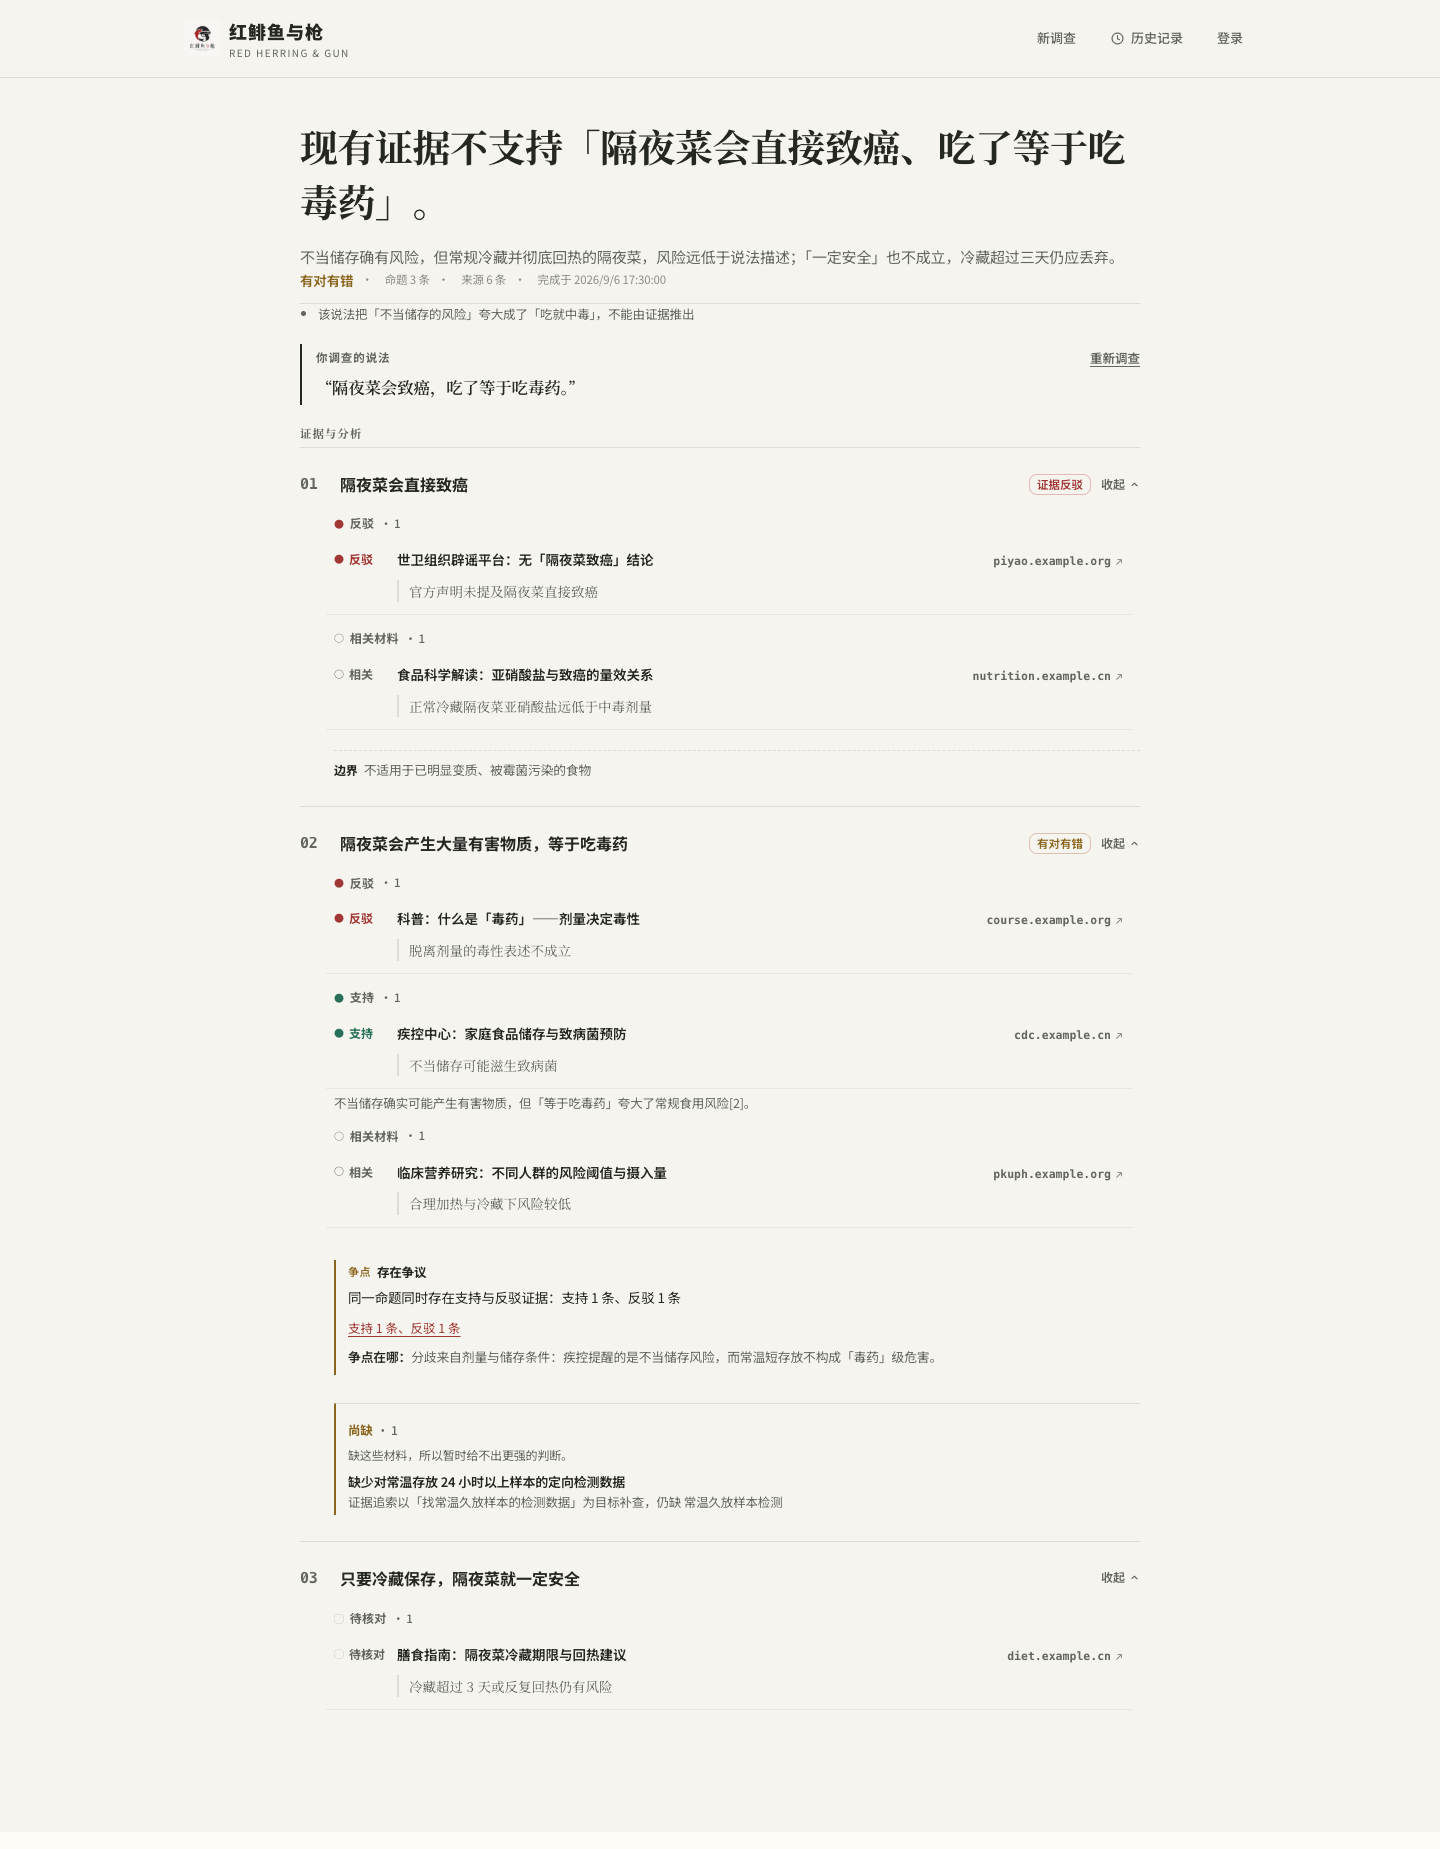
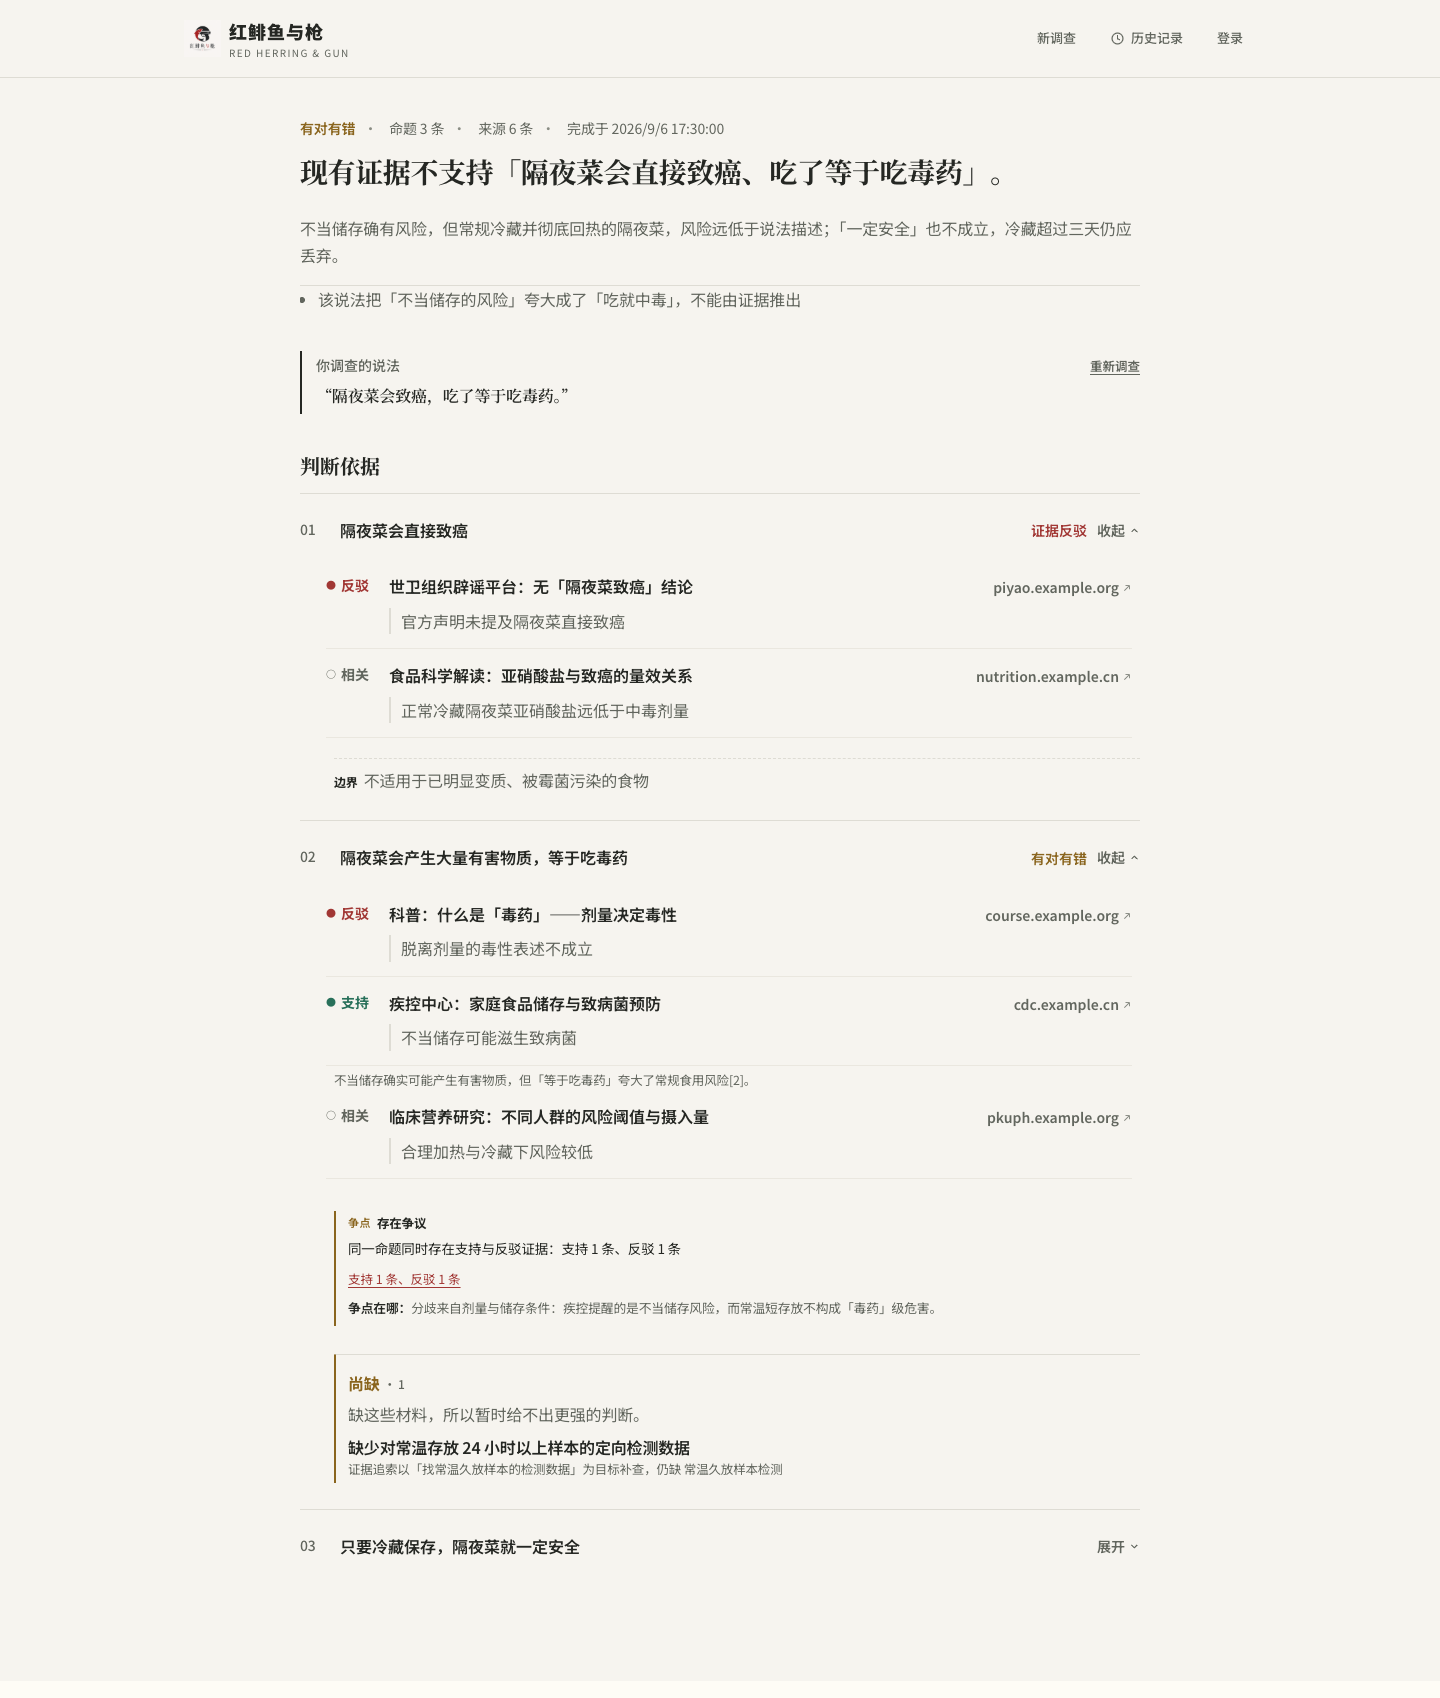
fix(golden-path): 结果页按判断、回答、原句、依据来读
完成态只用四档字号，小节改成「判断依据」，材料行不再重复分组标题。

diff --git a/mvp/src/goldenPath/golden-path.css b/mvp/src/goldenPath/golden-path.css
@@ -1112,12 +1112,13 @@
 .gp-hero-answer {
   margin: 0 0 16px 0;
   font-family: var(--gp-serif);
-  font-size: clamp(26px, 3.2vw, 38px);
+  font-size: clamp(22px, 2.2vw, 28px);
   font-weight: 650;
-  line-height: 1.45;
-  letter-spacing: -0.5px;
+  line-height: 1.4;
+  letter-spacing: -0.4px;
   color: var(--gp-ink-primary);
   text-decoration: none;
+  max-width: 38em;
 }
 
 /* 判断色只做细线，不对整句铺色 */
@@ -1135,11 +1136,11 @@
 /* 结论第二层：判断句之后的解释，降到正文档层级，与 24px/700 的判断明确分层。
    不新起一套 token，沿用既有的正文墨色与字号阶梯。 */
 .gp-hero-rationale {
-  margin: 0;
-  font-size: 15px;
+  margin: 8px 0 0;
+  font-size: 16px;
   font-weight: 400;
   line-height: 1.7;
-  color: var(--gp-ink-secondary);
+  color: var(--gp-ink-2);
 }
 
 .gp-hero-uncertainty {
@@ -1155,16 +1156,15 @@
   flex-wrap: wrap;
   align-items: center;
   gap: 0 0;
-  font-size: 11.5px;
+  margin: 0 0 12px;
+  font-size: 14px;
   font-weight: 400;
-  color: var(--gp-ink-muted);
+  color: var(--gp-ink-2);
   font-variant-numeric: tabular-nums;
 }
 
 .gp-hero-judgment {
-  /* 取 13.5px/600：与已提交的 mvp/DESIGN.md「判断类别用判断色文字（13.5px / 600）
-     与规模行并排」一致。PR #85 原来的 11.5px/500 与该规格不符，故合并时取前者。 */
-  font-size: 13.5px;
+  font-size: 14px;
   font-weight: 600;
   color: var(--gp-ink-tertiary);
 }
@@ -1191,16 +1191,16 @@
 }
 
 .gp-hero-boundaries {
-  margin-top: 12px;
+  margin-top: 16px;
   padding: 0;
   background: transparent;
   border: 0;
   border-top: 1px solid var(--gp-hairline);
   border-radius: 0;
   box-shadow: none;
-  font-size: 12.5px;
+  font-size: 16px;
   line-height: 1.65;
-  color: var(--gp-ink-tertiary);
+  color: var(--gp-ink-2);
 }
 
 .gp-hero-boundary-list {
@@ -1258,6 +1258,101 @@
   letter-spacing: 0.08em;
   text-transform: uppercase;
   color: var(--gp-ink-3);
+}
+
+/* 完成态：四档字号。判断 14 / 回答 22–28 / 节题 20 / 正文 16。 */
+.gp-canvas[data-gp-phase="complete"] .gp-section-label {
+  margin: 28px 0 12px;
+  font-family: var(--gp-serif);
+  font-size: 20px;
+  font-weight: 650;
+  letter-spacing: 0;
+  text-transform: none;
+  color: var(--gp-ink);
+}
+
+.gp-canvas[data-gp-phase="complete"] .gp-original {
+  margin: 20px 0 8px;
+}
+
+.gp-canvas[data-gp-phase="complete"] .gp-original-label {
+  font-size: 14px;
+  font-weight: 500;
+  letter-spacing: 0;
+  text-transform: none;
+  color: var(--gp-ink-2);
+}
+
+.gp-canvas[data-gp-phase="complete"] .gp-original-text {
+  font-size: 16px;
+  line-height: 1.7;
+}
+
+.gp-canvas[data-gp-phase="complete"] .gp-claim-text {
+  font-size: 16px;
+  font-weight: 600;
+}
+
+.gp-canvas[data-gp-phase="complete"] .gp-claim-num {
+  font-family: inherit;
+  font-size: 14px;
+  font-weight: 500;
+}
+
+.gp-canvas[data-gp-phase="complete"] .gp-chip {
+  border: 0;
+  background: none;
+  padding: 0;
+  font-size: 14px;
+}
+
+.gp-canvas[data-gp-phase="complete"] .gp-claim-toggle {
+  font-size: 14px;
+  color: var(--gp-ink-2);
+}
+
+.gp-canvas[data-gp-phase="complete"] .gp-evidence-group-head {
+  position: absolute;
+  width: 1px;
+  height: 1px;
+  overflow: hidden;
+  clip: rect(0 0 0 0);
+}
+
+.gp-canvas[data-gp-phase="complete"] .gp-evidence-title {
+  font-size: 16px;
+  font-weight: 600;
+  line-height: 1.5;
+}
+
+.gp-canvas[data-gp-phase="complete"] .gp-evidence-excerpt {
+  font-family: var(--gp-font);
+  font-size: 16px;
+  line-height: 1.65;
+  color: var(--gp-ink-2);
+}
+
+.gp-canvas[data-gp-phase="complete"] .gp-evidence-relation {
+  font-size: 14px;
+  min-width: 3.5em;
+}
+
+.gp-canvas[data-gp-phase="complete"] .gp-evidence-domain {
+  font-family: inherit;
+  font-size: 14px;
+}
+
+.gp-canvas[data-gp-phase="complete"] .gp-boundary,
+.gp-canvas[data-gp-phase="complete"] .gp-gaps-label,
+.gp-canvas[data-gp-phase="complete"] .gp-gaps-hint,
+.gp-canvas[data-gp-phase="complete"] .gp-gap-desc {
+  font-size: 16px;
+}
+
+.gp-canvas[data-gp-phase="complete"] .gp-evidence-item {
+  padding: 14px 0;
+  gap: 14px;
+  min-height: 44px;
 }
 
 .gp-claim-list {

diff --git a/mvp/src/goldenPath/goldenPath.test.tsx b/mvp/src/goldenPath/goldenPath.test.tsx
@@ -542,13 +542,13 @@ describe("Issue #64 [Reset 4D] Conclusion Emergence", () => {
     expect(document.querySelector('mark[data-gp-trace-claim="claim-2"]')?.getAttribute("data-gp-trace-active")).toBe("false");
   });
 
-  it("3：directAnswer 是结论区第一可见正文，judgment/meta 在其后", () => {
+  it("3：结论区先判断后回答，judgment 不是 chip", () => {
     renderCanvas(refutedComplete());
     const hero = screen.getByLabelText("调查结论");
     const answer = hero.querySelector("[data-gp-direct-answer]") as HTMLElement;
     const judgment = hero.querySelector("[data-gp-judgment]") as HTMLElement;
     expect(answer.textContent).toMatch(/原句站不住/);
-    expect(answer.compareDocumentPosition(judgment) & Node.DOCUMENT_POSITION_FOLLOWING).toBeTruthy();
+    expect(judgment.compareDocumentPosition(answer) & Node.DOCUMENT_POSITION_FOLLOWING).toBeTruthy();
     expect(judgment.classList.contains("gp-chip")).toBe(false);
     expect(hero.querySelector(".gp-hero-kicker")).toBeNull();
     expect(hero.textContent).not.toMatch(/调查完成/);
@@ -2275,25 +2275,30 @@ describe("Issue #66 post-#76 real SSE artifacts", () => {
 });
 
 describe("结果页 P0/P1：调查备忘录视觉", () => {
-  it("M2：directAnswer 是结论第一句；judgment 不是 chip；CSS 用衬线 clamp", async () => {
+  it("M2：先判断后回答；judgment 不是 chip；回答用衬线 22–28px", async () => {
     renderCanvas(refutedComplete());
     const hero = screen.getByLabelText("调查结论");
     const answer = hero.querySelector("[data-gp-direct-answer]") as HTMLElement;
     const judgment = hero.querySelector("[data-gp-judgment]") as HTMLElement;
     expect(answer.textContent).toMatch(/^原句站不住/);
-    expect(answer.compareDocumentPosition(judgment) & Node.DOCUMENT_POSITION_FOLLOWING).toBeTruthy();
+    expect(judgment.compareDocumentPosition(answer) & Node.DOCUMENT_POSITION_FOLLOWING).toBeTruthy();
     expect(judgment.classList.contains("gp-chip")).toBe(false);
     expect(hero.querySelector(".gp-hero-kicker")).toBeNull();
+    expect(screen.getByRole("heading", { name: "判断依据" })).toBeInTheDocument();
 
     const { readFileSync } = await import("node:fs");
     const { join } = await import("node:path");
     const css = readFileSync(join(process.cwd(), "src", "goldenPath", "golden-path.css"), "utf8");
     const answerRule = css.match(/\.gp-hero-answer\s*\{([^}]*)\}/);
     expect(answerRule![1]).toContain("var(--gp-serif)");
-    expect(answerRule![1]).toContain("clamp(26px, 3.2vw, 38px)");
+    expect(answerRule![1]).toContain("clamp(22px, 2.2vw, 28px)");
     expect(answerRule![1]).toContain("font-weight: 650");
     expect(answerRule![1]).toContain("var(--gp-ink-primary)");
     expect(answerRule![1]).not.toMatch(/background:\s*(?!transparent)/);
+    expect(css).toMatch(/data-gp-phase="complete"\] \.gp-section-label\s*\{[^}]*font-size: 20px/);
+    expect(css).toMatch(/data-gp-phase="complete"\] \.gp-claim-text\s*\{[^}]*font-size: 16px/);
+    expect(css).toMatch(/data-gp-phase="complete"\] \.gp-evidence-title\s*\{[^}]*font-size: 16px/);
+    expect(css).toMatch(/data-gp-phase="complete"\] \.gp-evidence-excerpt\s*\{[^}]*font-size: 16px/);
   });
 
   it("M3：有 excerpt 默认展示原字段；无 excerpt 不编造、不留空壳", () => {

diff --git a/mvp/src/goldenPath/ConclusionHero.tsx b/mvp/src/goldenPath/ConclusionHero.tsx
@@ -43,6 +43,14 @@ export function ConclusionHero({ directAnswer, verdictLead, rationale, judgment,
       transition={{ duration: reduce ? 0 : EMERGE_S, ease: EMERGE_EASE }}
     >
       <div className="gp-hero-inner">
+        <div className="gp-hero-meta">
+          <span className="gp-hero-judgment" data-gp-judgment={judgment}>
+            {JUDGMENT_LABEL[judgment]}
+          </span>
+          <span className="gp-hero-meta-item" data-gp-hero-meta="claims">{copy.claimCount(claimCount)}</span>
+          <span className="gp-hero-meta-item" data-gp-hero-meta="sources">{copy.sourceCount(sourceCount)}</span>
+          {checkedAt ? <span className="gp-hero-meta-item" data-gp-hero-meta="time">{copy.checkedAt(formatTime(checkedAt))}</span> : null}
+        </div>
         <motion.p
           className="gp-hero-answer"
           data-gp-direct-answer
@@ -62,14 +70,6 @@ export function ConclusionHero({ directAnswer, verdictLead, rationale, judgment,
             {copy.uncertaintyLine}
           </p>
         ) : null}
-        <div className="gp-hero-meta">
-          <span className="gp-hero-judgment" data-gp-judgment={judgment}>
-            {JUDGMENT_LABEL[judgment]}
-          </span>
-          <span className="gp-hero-meta-item" data-gp-hero-meta="claims">{copy.claimCount(claimCount)}</span>
-          <span className="gp-hero-meta-item" data-gp-hero-meta="sources">{copy.sourceCount(sourceCount)}</span>
-          {checkedAt ? <span className="gp-hero-meta-item" data-gp-hero-meta="time">{copy.checkedAt(formatTime(checkedAt))}</span> : null}
-        </div>
         {boundaries.length > 0 ? (
           <div className="gp-hero-boundaries" data-gp-boundaries>
             <ul className="gp-hero-boundary-list">

diff --git a/mvp/src/goldenPath/copy.ts b/mvp/src/goldenPath/copy.ts
@@ -49,7 +49,7 @@ export const GP_COPY = {
     canvasOriginalLabel: "你调查的说法",
     canvasPhasePrefix: "正在调查这个说法",
     canvasClaimsLabel: "这句话被拆成了这些命题",
-    canvasEvidenceLabel: "证据与分析",
+    canvasEvidenceLabel: "判断依据",
     claimExpand: "展开",
     claimCollapse: "收起",
     reviewAgain: "重新调查",
@@ -137,7 +137,7 @@ export const GP_COPY = {
     canvasOriginalLabel: "The claim you asked about",
     canvasPhasePrefix: "Investigating this claim",
     canvasClaimsLabel: "This claim was broken into these statements",
-    canvasEvidenceLabel: "Evidence & analysis",
+    canvasEvidenceLabel: "What the judgment rests on",
     claimExpand: "Expand",
     claimCollapse: "Collapse",
     reviewAgain: "Investigate again",

diff --git a/mvp/src/goldenPath/InvestigationCanvas.tsx b/mvp/src/goldenPath/InvestigationCanvas.tsx
@@ -205,7 +205,11 @@ export function InvestigationCanvas({
 
         {snapshot.claims.length > 0 ? (
           <section className="gp-claims" aria-label={copy.canvasEvidenceLabel}>
-            {!complete ? <h3 className="gp-section-label">{copy.canvasClaimsLabel}</h3> : <h3 className="gp-section-label">{copy.canvasEvidenceLabel}</h3>}
+            {!complete ? (
+              <h3 className="gp-section-label">{copy.canvasClaimsLabel}</h3>
+            ) : (
+              <h2 className="gp-section-label">{copy.canvasEvidenceLabel}</h2>
+            )}
             <div className="gp-claim-list">
               {snapshot.claims.map((claim, index) => (
                 <ClaimSection

diff --git a/docs/evals/2026-09-11-result-reading-order.md b/docs/evals/2026-09-11-result-reading-order.md
@@ -1,0 +1,43 @@
+# 结果页阅读顺序 · 验收标准
+
+- 日期：2026-09-11
+- 用户原话：结果页太乱、看不懂、没有任何顺序；「证据与分析」字太小，下面字号一会儿大一会儿小，体验差。
+- 生产入口：完成态 `InvestigationCanvas`（`?fixture=complete`）。
+
+## Change
+
+完成态按这个顺序读，且全页只用四档字号：
+
+1. 判断（有对有错 / 证据反驳…）和计数，14px
+2. 直接回答，衬线 22–28px，不是一整段 38px
+3. 原句，16px
+4. 小节标题「判断依据」，20px，不是 11.5px 大写
+5. 命题 16px；材料标题和片段 16px；关系词 14px
+
+分组「反驳 · 1」不再在完成态抢视觉（仍留在 DOM 给测试）。关系只在材料行出现一次。
+
+## Not this
+
+- 不改核查数据，不把待核对染成支持/反驳。
+- 不另起 demo 页。
+- 不准删 identity / 待核对中性测试。
+
+## Evaluator
+
+| # | 判据 | 怎么验 | 类型 |
+|---|------|--------|------|
+| E1 | 结论区：判断在直接回答之前；判断不是 chip | `goldenPath.test.tsx` | 命令 |
+| E2 | 完成态小节标题是「判断依据」，字号规则含 20px | 测试文案 + CSS | 命令 |
+| E3 | 完成态 `.gp-claim-text`、`.gp-evidence-title`、`.gp-evidence-excerpt` 均为 16px | CSS | 命令 |
+| E4 | 完成态 `.gp-section-label` 不是 uppercase 11.5px | CSS | 命令 |
+| E5 | 既有待核对中性、证据 identity、摘录诚实测试仍绿 | `goldenPath.test.tsx` | 命令 |
+| E6 | 桌面/手机 complete 截图能看出 1→5 的顺序 | Playwright `?fixture=complete` | 人评 |
+
+## 字号对照（Will's S：少用几种字号，避免相近尺寸）
+
+| 档 | 用途 | 大小 |
+| --- | --- | --- |
+| 回答 | 直接回答 | 22–28px 衬线 |
+| 节题 | 判断依据 | 20px |
+| 正文 | 原句、命题、材料标题、片段 | 16px |
+| 辅文 | 判断、计数、关系、域名、时间 | 14px |

diff --git a/docs/NOTES.md b/docs/NOTES.md
@@ -1,5 +1,7 @@
 # 当前状态
 
+2026-09-11 结果页阅读顺序（契约 `docs/evals/2026-09-11-result-reading-order.md`）：完成态改成「判断 → 回答 → 原句 → 判断依据」。四档字号实测 14 / 28 / 20 / 16。分组「反驳 · 1」完成态不再抢视觉。门禁 mvp 1174 过 / 1 跳过。截图 `preview/prb-complete-desktop.png`。未合并未部署。
+
 2026-09-11 预览方向两处改（契约 `docs/evals/2026-09-11-preview-direction.md`）：生产首页拿掉「不只给结论 / 查完大概长这样」示意卡；调查中改为左原句右发现、未开始命题收起、职责头像只强调正在做的那个。fixture 仍驱动真实 `InvestigationCanvas`。门禁：mvp 1174 过 / 1 跳过。截图 `docs/design/2026-09-11-investigation-experience/preview/`。未合并未部署。
 
 2026-09-11 调查体验重构 PR-B：生产 `goldenPath` 换成交接包设计系统（浅暖灰 #F6F4EF、品牌 #A13734、标题「这句话，站得住吗？」、四职责头像用既有 `public/agents/*.png`、首页教学示意仍标「不是真结果」）。真实入口仍是 `mvp/src/App.tsx`，`?fixture=` 驱动同一棵组件树。预览 `http://127.0.0.1:5210/`，截图 `docs/design/2026-09-11-investigation-experience/preview/`。门禁：mvp 1172 过 / 1 跳过。视觉等人评，未合并未部署。后端活动层 / RunService 还没接。
